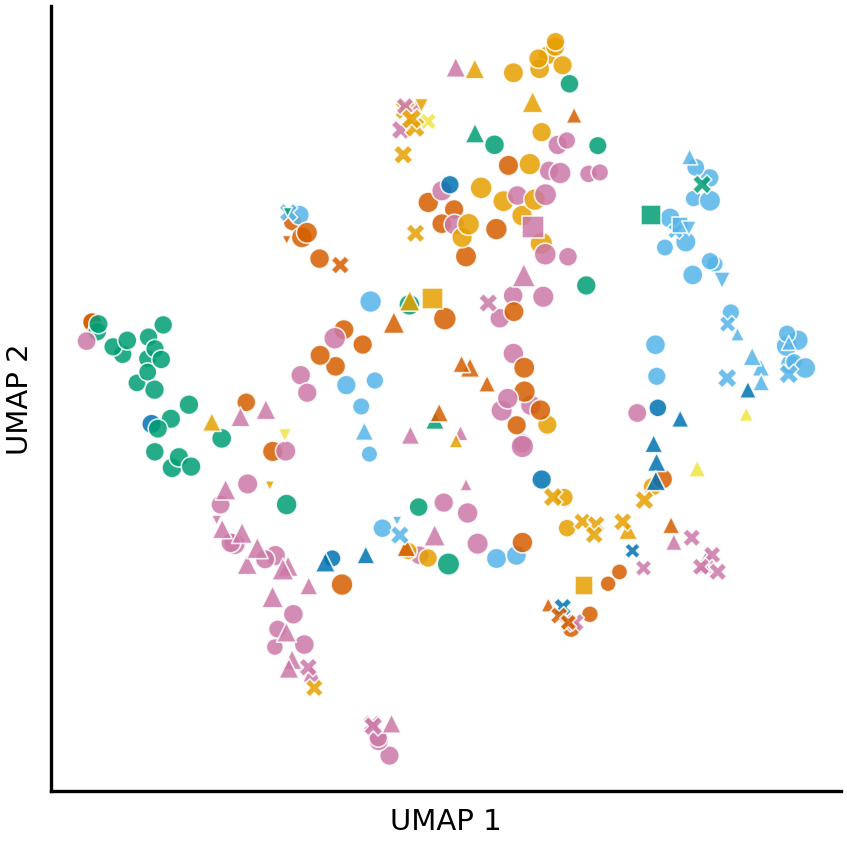
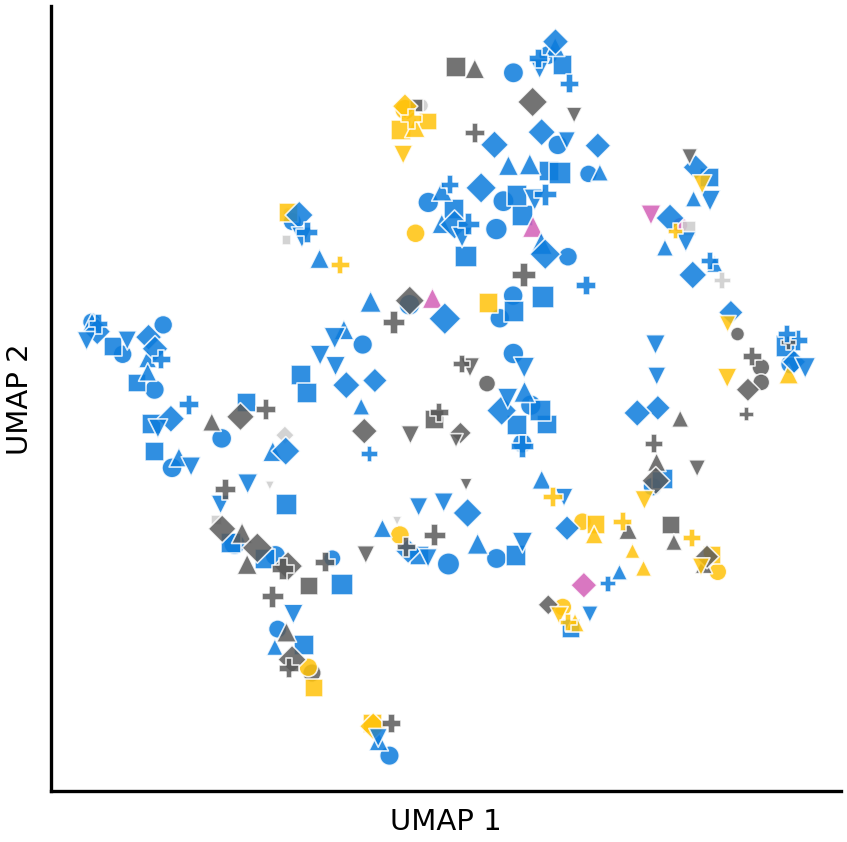
Figure S14: colour by state category, mark participants by shape
Panel B now colours each active state by its category with the Figure 2A
colours, and marker shape is the participant (Figure 1C markers), as in
the other panels. Panel D draws participants as marker shapes in one
neutral colour instead of a per-participant colour.

The single-match on/off example is removed; the lagged occupancy
correlation becomes panel E. The participant-colour and active-state
network legends go, and S14 reuses the Figure 2E participant and network
legends.

diff --git a/script/fig_F2E_participant_umap.py b/script/fig_F2E_participant_umap.py
@@ -9,8 +9,8 @@ are not evidence; the matching statistics from 05h are.
 In 2E (and S A) colour encodes each state's dominant network, with the
 network colours of Fig 2C, and marker shape encodes participant, with the
 markers of Fig 1C. A line between two states of the same colour is a match
-between states with the same dominant network. S B also colours by dominant
-network (its markers carry the state category); S D keeps colour = participant.
+between states with the same dominant network. Marker shape is the participant
+in every panel; S B colours states by category with the colours of Fig 2A.
 
 Chart-family note: Fig 1D and Fig 5A already use scatter. Panel E is kept as a
 documented exception to the at-most-two-main-figures rule, because its axes are
@@ -22,17 +22,16 @@ decision 2026-10-22).
 | 2E | 5 in wide, one scale on both UMAP axes. Content-eligible states (16-31 per participant), pooled UMAP, colour = dominant network (05e state_flags, Fig 2C colours), marker = participant (Fig 1C markers); a line for every Hungarian match between two participants (descriptive; width and opacity grow with the matched r); dark lines are time-locked (family-wise threshold on the within-run circular-shift null) | scatter + segments | fig2/fig2_E_participant_umap |
 | 2E (no lines) | The same embedding without lines (for talks) | scatter | fig2/fig2_E_participant_umap_nolines |
 | S A | As 2E, but for the matches after removing the three largest components of the other four participants' state maps | scatter + segments | fig2/supp_participant_umap/figS_participant_umap_A_residual_matches |
-| S B | All active states, colour = dominant network (Fig 2C colours), marker = 05e summary category (content-eligible, low-confidence, run-onset-anchored, drift-anchored, rare; a sub-HRF state that is also run-onset-anchored counts as low-confidence, as in Fig 2A), marker area grows with the square root of fractional occupancy (size 4 + 120 sqrt(FO) pt^2) | scatter | .../figS_participant_umap_B_active_categories |
+| S B | All active states, colour = 05e summary category (Fig 2A colours: content-eligible, low-confidence, run-onset-anchored, drift-anchored, rare; a sub-HRF state that is also run-onset-anchored counts as low-confidence, as in Fig 2A), marker = participant (Fig 1C markers), marker area grows with the square root of fractional occupancy (size 4 + 120 sqrt(FO) pt^2) | scatter | .../figS_participant_umap_B_active_categories |
 | S C | Content-eligible states, colour = recurrence score | scatter | .../figS_participant_umap_C_recurrence |
-| S D | Robustness: UMAP at 3 seeds x n_neighbors 5/15/30, PCA and classical MDS | scatter small multiples | .../figS_participant_umap_D_robustness |
-| S E | One time-locked match (the one with the median locking r of all time-locked matches) as on/off occupancy of the two states in the first 4 runs both participants watched in which both states occur; colour = each state's dominant network | event raster | .../figS_participant_umap_E_time_locking_example |
-| S F | Occupancy correlation of every map match (all 353, not only time-locked) at lags of -20..20 TRs of the second participant within each run; thin lines = mean per participant pair, thick line = mean over matches; lag 0 equals 05h's locking r | line | .../figS_participant_umap_F_lagged_locking |
-| legends | 2E participant markers and dominant-network colours; supplementary network colours (active states), participant colours (S D), category markers, recurrence colorbar | legend | fig2_E_legend_participants, fig2_E_legend_networks, .../figS_participant_umap_legend_* |
+| S D | Robustness: UMAP at 3 seeds x n_neighbors 5/15/30, PCA and classical MDS; marker = participant | scatter small multiples | .../figS_participant_umap_D_robustness |
+| S E | Occupancy correlation of every map match (all 353, not only time-locked) at lags of -20..20 TRs of the second participant within each run; thin lines = mean per participant pair, thick line = mean over matches; lag 0 equals 05h's locking r | line | .../figS_participant_umap_E_lagged_locking |
+| legends | 2E participant markers (also for S A, S B, S D) and dominant-network colours (also for S A); category colours (S B); recurrence colorbar (S C) | legend | fig2_E_legend_participants, fig2_E_legend_networks, .../figS_participant_umap_legend_* |
 
 Supplementary panels A-D share one chart family because they show one
-embedding with different encodings; the parallel layout is the point. E and F
-show the timing behind the time-locked flag, which the embedding cannot show.
-F's value at lag 0 is checked against 05h's per-match locking r.
+embedding with different encodings; the parallel layout is the point. E shows
+the timing behind the time-locked flag, which the embedding cannot show. E's
+value at lag 0 is checked against 05h's per-match locking r.
 
 Also written: fig2/supp_participant_umap/participant_mixing.json, the share of
 each state's 5 nearest neighbours (correlation distance, full 156-parcel space,
@@ -73,11 +72,12 @@ def imports():
     load_dotenv(Path(__file__).resolve().parent.parent / ".env")
     sys.path.insert(0, str(Path(__file__).resolve().parent))
     from utils.plot_style import (NETWORK_COLORS, RECURRENCE_CMAP, SUBJECT_MARKERS,
-                                  apply_publication_style)
+                                  SUBJECT_NEUTRAL, apply_publication_style)
     from utils.recurrence_utils import active_state_indices
 
     apply_publication_style()
-    return (NETWORK_COLORS, Path, RECURRENCE_CMAP, SUBJECT_MARKERS, active_state_indices,
+    return (NETWORK_COLORS, Path, RECURRENCE_CMAP, SUBJECT_MARKERS, SUBJECT_NEUTRAL,
+            active_state_indices,
             json, np, os, pd, pickle, plt, umap, warnings)
 
 
@@ -86,24 +86,22 @@ def config(Path, os):
     SCRATCH = Path(os.environ["SCRATCH_DIR"])
     PARC, VT = "atlas-4S156Parcels", "0.95"
     SUBJECTS = [f"sub-0{i}" for i in range(1, 7)]
-    # Paul Tol "bright" (colourblind-safe)
-    SUBJ_COLORS = dict(zip(SUBJECTS, ["#4477AA", "#EE6677", "#228833",
-                                      "#CCBB44", "#66CCEE", "#AA3377"]))
     # 05e_a4 summary categories in the manuscript's names
     CATEGORY_NAMES = {"eligible_for_content_analysis": "content-eligible",
                       "low_confidence": "low-confidence",
                       "run_onset_anchored": "run-onset-anchored",
                       "season_temporal": "drift-anchored",
                       "rare": "rare"}  # active states are never "unused"
-    CATEGORY_MARKERS = {"content-eligible": "o", "low-confidence": "^",
-                        "run-onset-anchored": "X", "drift-anchored": "s",
-                        "rare": "v"}
+    # the category colours of Fig 2A (fig_F2_recurrence_sources.TAXONOMY_COLORS)
+    CATEGORY_COLORS = {"content-eligible": "#0C7BDC", "low-confidence": "#5A5A5A",
+                       "run-onset-anchored": "#FFC20A", "drift-anchored": "#D35FB7",
+                       "rare": "#CCCCCC"}
     UMAP_KW = dict(n_neighbors=15, min_dist=0.3, metric="correlation", random_state=0)
     OUT = SCRATCH / "output" / "manuscript_figures" / "fig2"
     SUPP = OUT / "supp_participant_umap"
     SUPP.mkdir(parents=True, exist_ok=True)
-    return (CATEGORY_MARKERS, CATEGORY_NAMES, OUT, PARC, SCRATCH, SUBJECTS,
-            SUBJ_COLORS, SUPP, UMAP_KW, VT)
+    return (CATEGORY_COLORS, CATEGORY_NAMES, OUT, PARC, SCRATCH, SUBJECTS,
+            SUPP, UMAP_KW, VT)
 
 
 @app.cell
@@ -317,16 +315,16 @@ def panel_2E(OUT, SUPP, draw_match_lines, full_match_table, residual_match_table
 
 
 @app.cell
-def panel_S_B(CATEGORY_MARKERS, NETWORK_COLORS, SUPP, emb_active, finish, np, plt,
-              state_table):
+def panel_S_B(CATEGORY_COLORS, SUBJECTS, SUBJECT_MARKERS, SUPP, emb_active, finish, np,
+              plt, state_table):
     _fig, _ax = plt.subplots(figsize=(3.4, 3.4))
     _size = 4 + 120 * np.sqrt(state_table["fo"].to_numpy())
-    for _cat, _mk in CATEGORY_MARKERS.items():
-        _m = (state_table["category"] == _cat).to_numpy()
-        if _m.any():
-            _ax.scatter(emb_active[_m, 0], emb_active[_m, 1], s=_size[_m], marker=_mk,
-                        c=[NETWORK_COLORS[n] for n in state_table.loc[_m, "network"]],
-                        edgecolors="white", linewidths=0.4, alpha=0.85)
+    for _s in SUBJECTS:
+        _m = (state_table["sub"] == _s).to_numpy()
+        _ax.scatter(emb_active[_m, 0], emb_active[_m, 1], s=_size[_m],
+                    marker=SUBJECT_MARKERS[_s],
+                    c=[CATEGORY_COLORS[c] for c in state_table.loc[_m, "category"]],
+                    edgecolors="white", linewidths=0.4, alpha=0.85)
     finish(_ax, SUPP / "figS_participant_umap_B_active_categories", _fig)
     return
 
@@ -342,7 +340,8 @@ def panel_S_C(RECURRENCE_CMAP, SUPP, emb_elig, finish, plt, state_table):
 
 
 @app.cell
-def panel_S_D(SUBJECTS, SUBJ_COLORS, SUPP, UMAP_KW, np, plt, state_maps, state_table, umap):
+def panel_S_D(SUBJECTS, SUBJECT_MARKERS, SUBJECT_NEUTRAL, SUPP, UMAP_KW, np, plt, state_maps,
+              state_table, umap):
     _elig = state_table["eligible"].to_numpy()
     _X = state_maps[_elig]
     _subj = state_table["sub"].to_numpy()[_elig]
@@ -368,7 +367,8 @@ def panel_S_D(SUBJECTS, SUBJ_COLORS, SUPP, UMAP_KW, np, plt, state_maps, state_t
         _ax.set_axis_on()
         for _s in SUBJECTS:
             _m = _subj == _s
-            _ax.scatter(_Y[_m, 0], _Y[_m, 1], s=7, c=SUBJ_COLORS[_s], linewidths=0)
+            _ax.scatter(_Y[_m, 0], _Y[_m, 1], s=9, marker=SUBJECT_MARKERS[_s],
+                        c=SUBJECT_NEUTRAL, linewidths=0, alpha=0.8)
         _ax.set_xticks([]); _ax.set_yticks([])
         _ax.set_xlabel(_name, fontsize=7)
         for _sp in ("top", "right"):
@@ -381,65 +381,7 @@ def panel_S_D(SUBJECTS, SUBJ_COLORS, SUPP, UMAP_KW, np, plt, state_maps, state_t
 
 
 @app.cell
-def panel_S_E(NETWORK_COLORS, PARC, SCRATCH, SUPP, VT, full_match_table, np, pickle, plt,
-              state_table):
-    # one time-locked match drawn as on/off occupancy in runs both participants
-    # watched. Pre-stated choices, so the example is not the strongest one: the
-    # time-locked match with the median locking r, and the first 4 shared runs
-    # (in run order) in which both states occur. Runs are aligned from their
-    # start and truncated to the shorter one, as in 05h.
-    TR = 1.49
-    _locked = full_match_table[full_match_table["time_locked"]].sort_values(
-        "lock_r", kind="stable").reset_index(drop=True)
-    _ex = _locked.iloc[(len(_locked) - 1) // 2]
-
-    def _decoded(sub):
-        _p = (SCRATCH / "output" / "04_combined_hdphmm" / PARC / sub / "final"
-              / f"vt{VT}" / "decoded_states.pkl")
-        with open(_p, "rb") as _f:
-            return {k: np.asarray(v, dtype=int) for k, v in pickle.load(_f).items()}
-
-    _da, _db = _decoded(_ex.sub_a), _decoded(_ex.sub_b)
-    _runs = []
-    for _r in sorted(set(_da) & set(_db)):
-        _L = min(_da[_r].size, _db[_r].size)
-        _oa, _ob = _da[_r][:_L] == _ex.a, _db[_r][:_L] == _ex.b
-        if _oa.any() and _ob.any():
-            _runs.append((_r, _oa, _ob))
-        if len(_runs) == 4:
-            break
-    _net = state_table.set_index(["sub", "state"])["network"]
-    _ca = NETWORK_COLORS[_net[(_ex.sub_a, _ex.a)]]
-    _cb = NETWORK_COLORS[_net[(_ex.sub_b, _ex.b)]]
-
-    _fig, _axes = plt.subplots(len(_runs), 1, figsize=(6.0, 0.62 * len(_runs) + 0.35),
-                               sharex=True)
-    for _ax, (_r, _oa, _ob) in zip(np.atleast_1d(_axes), _runs):
-        _t = np.arange(_oa.size) * TR / 60.0
-        _ax.fill_between(_t, 1.05, 1.95, where=_oa, step="post", color=_ca, lw=0)
-        _ax.fill_between(_t, 0.05, 0.95, where=_ob, step="post", color=_cb, lw=0)
-        _ax.set_ylim(0, 2); _ax.set_yticks([0.5, 1.5])
-        _ax.set_yticklabels([f"{_ex.sub_b} state {_ex.b}", f"{_ex.sub_a} state {_ex.a}"],
-                            fontsize=6)
-        _ax.text(1.0, 0.5, str(_r), transform=_ax.transAxes, fontsize=6,
-                 ha="left", va="center")
-        _ax.tick_params(axis="y", length=0)
-        for _sp in ("top", "right", "left"):
-            _ax.spines[_sp].set_visible(False)
-    _ax.set_xlabel("Time in run (min)", fontsize=7)
-    _ax.tick_params(axis="x", labelsize=6)
-    for _ext in ("png", "svg", "pdf"):
-        _fig.savefig(SUPP / f"figS_participant_umap_E_time_locking_example.{_ext}",
-                     bbox_inches="tight", pad_inches=0.02, dpi=300)
-    plt.close(_fig)
-    print(f"S E example: {_ex.sub_a} state {_ex.a} - {_ex.sub_b} state {_ex.b}, "
-          f"map r = {_ex.r:.3f}, locking r = {_ex.lock_r:.3f} (median of "
-          f"{len(_locked)} time-locked matches); runs {[r for r, _, _ in _runs]}")
-    return
-
-
-@app.cell
-def panel_S_F(PARC, SCRATCH, SUBJECTS, SUPP, VT, full_match_table, json, np, pickle, plt):
+def panel_S_E(PARC, SCRATCH, SUBJECTS, SUPP, VT, full_match_table, json, np, pickle, plt):
     # lagged occupancy correlation for every map match: Pearson r between one
     # state's on/off sequence and its match's, with the second participant
     # shifted by -20..20 TRs within each run (no wrap), pooled over the runs both
@@ -501,7 +443,7 @@ def panel_S_F(PARC, SCRATCH, SUBJECTS, SUPP, VT, full_match_table, json, np, pic
     for _sp in ("top", "right"):
         _ax.spines[_sp].set_visible(False)
     for _ext in ("png", "svg", "pdf"):
-        _fig.savefig(SUPP / f"figS_participant_umap_F_lagged_locking.{_ext}",
+        _fig.savefig(SUPP / f"figS_participant_umap_E_lagged_locking.{_ext}",
                      bbox_inches="tight", pad_inches=0.02, dpi=300)
     plt.close(_fig)
     _summary = {"lags_tr": LAGS.tolist(), "tr_s": TR_S, "n_matches": int(_C.shape[0]),
@@ -513,15 +455,15 @@ def panel_S_F(PARC, SCRATCH, SUBJECTS, SUPP, VT, full_match_table, json, np, pic
     with open(SUPP / "lagged_locking.json", "w") as _f:
         json.dump(_summary, _f, indent=1)
     _m = np.nanmean(_C, axis=0)
-    print(f"S F: mean r at lag 0 = {_m[_lag0]:.4f}, at +-20 TR = {_m[0]:.4f} / {_m[-1]:.4f}; "
+    print(f"S E: mean r at lag 0 = {_m[_lag0]:.4f}, at +-20 TR = {_m[0]:.4f} / {_m[-1]:.4f}; "
           f"peak lag {LAGS[np.nanargmax(_m)]} TR; pairs peaking at 0: "
           f"{int(sum(LAGS[np.nanargmax(p)] == 0 for p in _pair_mean))}/{len(_pairs)}")
     return
 
 
 @app.cell
-def legends(CATEGORY_MARKERS, NETWORK_COLORS, OUT, RECURRENCE_CMAP, SUBJECTS,
-            SUBJECT_MARKERS, SUBJ_COLORS, SUPP, plt, state_table):
+def legends(CATEGORY_COLORS, NETWORK_COLORS, OUT, RECURRENCE_CMAP, SUBJECTS,
+            SUBJECT_MARKERS, SUPP, plt, state_table):
     import matplotlib as mpl
     from matplotlib.lines import Line2D
 
@@ -543,18 +485,9 @@ def legends(CATEGORY_MARKERS, NETWORK_COLORS, OUT, RECURRENCE_CMAP, SUBJECTS,
     _fig, _ax = plt.subplots(figsize=(1.2, 1.6)); _ax.set_axis_off()
     _ax.legend(handles=_h, loc="center", frameon=False, fontsize=7)
     _save(_fig, OUT / "fig2_E_legend_networks")
-    _h = [Line2D([], [], marker="o", ls="", color=SUBJ_COLORS[s], label=s) for s in SUBJECTS]
-    _fig, _ax = plt.subplots(figsize=(1.2, 1.6)); _ax.set_axis_off()
-    _ax.legend(handles=_h, loc="center", frameon=False, fontsize=7)
-    _save(_fig, SUPP / "figS_participant_umap_legend_participants")
-    _nets = set(state_table["network"])
-    _h = [Line2D([], [], marker="o", ls="", color=c, label=n)
-          for n, c in NETWORK_COLORS.items() if n in _nets]
-    _fig, _ax = plt.subplots(figsize=(1.2, 1.8)); _ax.set_axis_off()
-    _ax.legend(handles=_h, loc="center", frameon=False, fontsize=7)
-    _save(_fig, SUPP / "figS_participant_umap_legend_networks")
-    _h = [Line2D([], [], marker=_mk, ls="", color="#4A4A4A", label=_cat)
-          for _cat, _mk in CATEGORY_MARKERS.items()]
+    # S B: state category = colour (as in Fig 2A); participant markers as in 2E
+    _h = [Line2D([], [], marker="o", ls="", color=_c, label=_cat)
+          for _cat, _c in CATEGORY_COLORS.items()]
     _fig, _ax = plt.subplots(figsize=(1.6, 1.4)); _ax.set_axis_off()
     _ax.legend(handles=_h, loc="center", frameon=False, fontsize=7)
     _save(_fig, SUPP / "figS_participant_umap_legend_categories")

diff --git a/script/export_si_figures.py b/script/export_si_figures.py
@@ -134,21 +134,15 @@ SI_MAP: list[tuple[str, str, str, str | None]] = [
     ("S14_participant_umap_D_robustness.png", "EXPORT",
      "script/fig_F2E_participant_umap.py",
      "fig2/supp_participant_umap/figS_participant_umap_D_robustness.png"),
-    ("S14_participant_umap_E_time_locking_example.png", "EXPORT",
+    ("S14_participant_umap_E_lagged_locking.png", "EXPORT",
      "script/fig_F2E_participant_umap.py",
-     "fig2/supp_participant_umap/figS_participant_umap_E_time_locking_example.png"),
-    ("S14_participant_umap_F_lagged_locking.png", "EXPORT",
-     "script/fig_F2E_participant_umap.py",
-     "fig2/supp_participant_umap/figS_participant_umap_F_lagged_locking.png"),
+     "fig2/supp_participant_umap/figS_participant_umap_E_lagged_locking.png"),
     ("S14_participant_umap_legend_networks.png", "EXPORT",
      "script/fig_F2E_participant_umap.py",
-     "fig2/supp_participant_umap/figS_participant_umap_legend_networks.png"),
-    ("S14_participant_umap_legend_participant_markers.png", "EXPORT",
+     "fig2/fig2_E_legend_networks.png"),
+    ("S14_participant_umap_legend_participants.png", "EXPORT",
      "script/fig_F2E_participant_umap.py",
      "fig2/fig2_E_legend_participants.png"),
-    ("S14_participant_umap_legend_participant_colors.png", "EXPORT",
-     "script/fig_F2E_participant_umap.py",
-     "fig2/supp_participant_umap/figS_participant_umap_legend_participants.png"),
     ("S14_participant_umap_legend_categories.png", "EXPORT",
      "script/fig_F2E_participant_umap.py",
      "fig2/supp_participant_umap/figS_participant_umap_legend_categories.png"),

diff --git a/docs/supplementary/README.md b/docs/supplementary/README.md
@@ -19,7 +19,7 @@ This directory catalogues all supplementary figures (S1–S14) for the manuscrip
 | S11 | Network participation profiles of recurring brain states across cortical and subcortical systems | [S11_network_participation.png](figures/S11_network_participation.png) | [../findings/05e_temporal_trend_a4.md](../findings/05e_temporal_trend_a4.md) | main |
 | S12 | ICA out-of-stimulus recurrence across three stimuli (Movie10, Harry Potter, Petit Prince): winner-take-all (A) and continuous (B) assignment panels for each stimulus | [S12_ica_oos_recurrence_m10_A_wta.png](figures/S12_ica_oos_recurrence_m10_A_wta.png), [_m10_B.png](figures/S12_ica_oos_recurrence_m10_B_continuous.png), [_hp_A.png](figures/S12_ica_oos_recurrence_hp_A_wta.png), [_hp_B.png](figures/S12_ica_oos_recurrence_hp_B_continuous.png), [_pp_A.png](figures/S12_ica_oos_recurrence_pp_A_wta.png), [_pp_B.png](figures/S12_ica_oos_recurrence_pp_B_continuous.png) | [sm_alt_ica_oos_recurrence.md](https://github.com/yibeichan/brain-states-friends/blob/supplements/docs/findings/sm_alt_ica_oos_recurrence.md) | supplements |
 | S13 | Per-participant phase-randomized null distributions for the Movie10 recurrence–occupancy correlation, with the observed correlation marked (the distributions behind Table S2) | [S13_phase_randomized_null.png](figures/S13_phase_randomized_null.png) | [sm_rel_r5_phase_null.md](https://github.com/yibeichan/brain-states-friends/blob/supplements/docs/findings/sm_rel_r5_phase_null.md) | supplements |
-| S14 | All participants' states in one embedding: matches after removing the components shared with the other participants (A), all active states by strongest network and state category (B), content-eligible states by recurrence score (C), the embedding under other UMAP settings, PCA and classical MDS (D), one time-locked match as on/off occupancy in shared runs (E), and the occupancy correlation of all matches across time lags (F); legends for networks, participants, categories and recurrence | [A](figures/S14_participant_umap_A_residual_matches.png) · [B](figures/S14_participant_umap_B_active_categories.png) · [C](figures/S14_participant_umap_C_recurrence.png) · [D](figures/S14_participant_umap_D_robustness.png) · [E](figures/S14_participant_umap_E_time_locking_example.png) · [F](figures/S14_participant_umap_F_lagged_locking.png) · legends: [networks](figures/S14_participant_umap_legend_networks.png), [participant markers](figures/S14_participant_umap_legend_participant_markers.png), [participant colors](figures/S14_participant_umap_legend_participant_colors.png), [categories](figures/S14_participant_umap_legend_categories.png), [recurrence](figures/S14_participant_umap_legend_recurrence.png) | [../findings/05h_participant_state_matching.md](../findings/05h_participant_state_matching.md) | main |
+| S14 | All participants' states in one embedding: matches after removing the components shared with the other participants (A), all active states by state category (B), content-eligible states by recurrence score (C), the embedding under other UMAP settings, PCA and classical MDS (D), and the occupancy correlation of all matches across time lags (E); legends for networks, participants, categories and recurrence | [A](figures/S14_participant_umap_A_residual_matches.png) · [B](figures/S14_participant_umap_B_active_categories.png) · [C](figures/S14_participant_umap_C_recurrence.png) · [D](figures/S14_participant_umap_D_robustness.png) · [E](figures/S14_participant_umap_E_lagged_locking.png) · legends: [networks](figures/S14_participant_umap_legend_networks.png), [participants](figures/S14_participant_umap_legend_participants.png), [categories](figures/S14_participant_umap_legend_categories.png), [recurrence](figures/S14_participant_umap_legend_recurrence.png) | [../findings/05h_participant_state_matching.md](../findings/05h_participant_state_matching.md) | main |
 
 ---
 
@@ -225,27 +225,23 @@ The content-eligible states of all six participants are embedded together with U
 
 **A.** As Figure 2E, but each participant pair is matched after the three largest components of a PCA over the other four participants' state maps are projected out of both participants' maps. Color is each state's strongest network and marker shape the participant; line width and opacity grow with the matched correlation, and dark lines mark time-locked matches.
 
-![UMAP of all active states of six participants; color is each state's strongest network, marker shape the state category, and marker area grows with fractional occupancy](figures/S14_participant_umap_B_active_categories.png)
+![UMAP of all active states of six participants; color is the state category, marker shape the participant, and marker area grows with fractional occupancy](figures/S14_participant_umap_B_active_categories.png)
 
-**B.** All active states in their own embedding. Color is each state's strongest network, marker shape the state category (content-eligible, low-confidence, run-onset-anchored, drift-anchored, rare), and marker area grows with the square root of fractional occupancy.
+**B.** All active states in their own embedding. Color is the state category (content-eligible, low-confidence, run-onset-anchored, drift-anchored, rare; colors as in Figure 2A), marker shape the participant, and marker area grows with the square root of fractional occupancy.
 
 ![UMAP of the content-eligible states of six participants colored by recurrence score from 0 to 1](figures/S14_participant_umap_C_recurrence.png)
 
 **C.** The content-eligible states of panel A and Figure 2E, colored by recurrence score.
 
-![Eleven small scatter plots of the content-eligible states colored by participant: UMAP with 5, 15 and 30 neighbours at seeds 0, 1 and 2, then PCA and classical multidimensional scaling](figures/S14_participant_umap_D_robustness.png)
+![Eleven small scatter plots of the content-eligible states with participant as marker shape: UMAP with 5, 15 and 30 neighbours at seeds 0, 1 and 2, then PCA and classical multidimensional scaling](figures/S14_participant_umap_D_robustness.png)
 
-**D.** The same states embedded with UMAP at 5, 15 and 30 neighbours and seeds 0, 1 and 2, and with PCA and classical multidimensional scaling of the same maps; color is the participant.
+**D.** The same states embedded with UMAP at 5, 15 and 30 neighbours and seeds 0, 1 and 2, and with PCA and classical multidimensional scaling of the same maps; marker shape is the participant.
 
-![Four rows, one per episode half, each showing when a sub-02 state and its matched sub-03 state were occupied over the run](figures/S14_participant_umap_E_time_locking_example.png)
+![Line plot of occupancy correlation against time lag from -30 to 30 s, peaking at zero lag, with one thin line per participant pair and a thick line for the mean over all matches](figures/S14_participant_umap_E_lagged_locking.png)
 
-**E.** One time-locked match shown as on/off occupancy: the time-locked match with the median occupancy correlation of all time-locked matches, in the first four runs both participants watched in which both states occur. Runs are aligned from their start and cut to the shorter run. Color is each state's strongest network.
+**E.** Occupancy correlation of every matched pair of states (all matches, not only the time-locked ones) when the second participant's state sequence is shifted by up to 20 TRs (about 30 s) within each run. Thin lines are the mean per participant pair; the thick line is the mean over all matches. The value at zero lag is the occupancy correlation used for the time-locking test. Values are also written to `lagged_locking.json`.
 
-![Line plot of occupancy correlation against time lag from -30 to 30 s, peaking at zero lag, with one thin line per participant pair and a thick line for the mean over all matches](figures/S14_participant_umap_F_lagged_locking.png)
-
-**F.** Occupancy correlation of every matched pair of states (all matches, not only the time-locked ones) when the second participant's state sequence is shifted by up to 20 TRs (about 30 s) within each run. Thin lines are the mean per participant pair; the thick line is the mean over all matches. The value at zero lag is the occupancy correlation used for the time-locking test. Values are also written to `lagged_locking.json`.
-
-Legends: [networks](figures/S14_participant_umap_legend_networks.png) (A, B), [participant markers](figures/S14_participant_umap_legend_participant_markers.png) (A), [participant colors](figures/S14_participant_umap_legend_participant_colors.png) (D), [state categories](figures/S14_participant_umap_legend_categories.png) (B), [recurrence score](figures/S14_participant_umap_legend_recurrence.png) (C).
+Legends: [networks](figures/S14_participant_umap_legend_networks.png) (A), [participants](figures/S14_participant_umap_legend_participants.png) (A, B, D), [state categories](figures/S14_participant_umap_legend_categories.png) (B), [recurrence score](figures/S14_participant_umap_legend_recurrence.png) (C).
 
 ---
 
